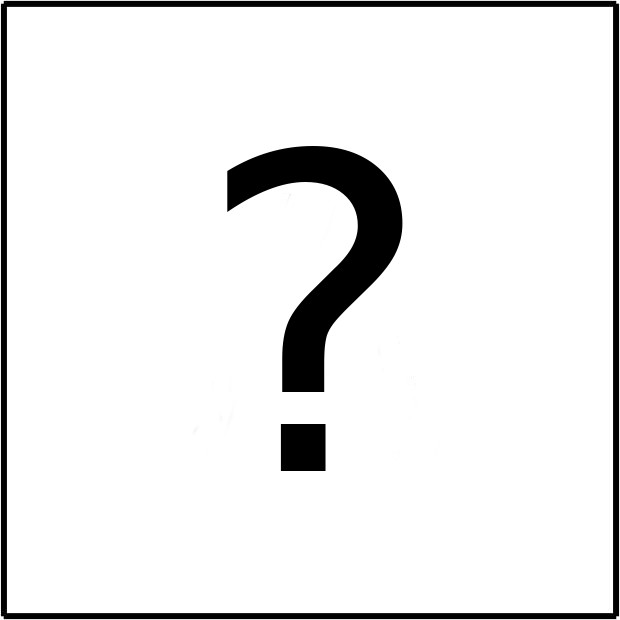
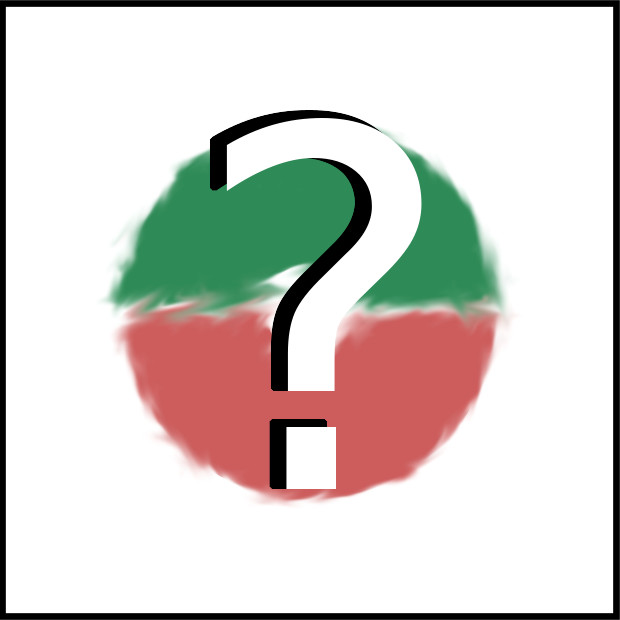
update

Changed region(s): [[0.1532, 0.1532, 0.8274, 0.8274], [0.9806, 0.0, 1.0, 1.0], [0.0, 0.0, 0.0306, 1.0]]

diff --git a/js/modules/inst.js b/js/modules/inst.js
@@ -336,6 +336,8 @@ export class Instructions {
                     + GUI.panelGenerateImg({src: 'images/cards_gif/lotteries/0.4.png', width: '15%'})
                     + 'Specifically, the green area indicates the chance of winning +1 (+' + this.exp.pointsToPence(1).toFixed(2) + 'p) ; the red area indicates the chance of losing -1 (+'
                     + this.exp.pointsToPence(1).toFixed(2) + 'p).\n\n'
+                    + ' • Sometimes the pie-chart will be hidden an represented by a question mark, in such a way that the odds of winning / losing are unknown.\n\n'
+                    + GUI.panelGenerateImg({src: 'images/cards_gif/stim/question.jpg', width: '15%'})
                     + ' • Sometimes you will be asked to choose between two symbols, sometime between two pie-charts, and sometimes between a pie-chart and a symbol.\n',
                 3: ' • (Note : points won during the training do not count for the final payoff!) \n\n'
                     + " • Let's begin with the second training test! \n\n"
@@ -355,6 +357,8 @@ export class Instructions {
                     + GUI.panelGenerateImg({src: 'images/cards_gif/lotteries/0.4.png', width: '15%'})
                     + 'Specifically, the green area indicates the chance of winning +1 (+' + this.exp.pointsToPence(1).toFixed(2) + 'p) ; the red area indicates the chance of losing -1 (+'
                     + this.exp.pointsToPence(1).toFixed(2) + 'p).\n\n'
+                    + ' • Sometimes the pie-chart will be hidden an represented by a question mark, in such a way that the odds of winning / losing are unknown.\n'
+                    + GUI.panelGenerateImg({src: 'images/cards_gif/stim/question.jpg', width: '15%'})
                     + ' • Sometimes you will be asked to choose between two symbols, sometime between two pie-charts, and sometimes between a pie-chart and a symbol.\n',
                 3: '• Note: The test of the phase 2 is like the second test of the training.\n'
                     + 'This is the actual game, every point will be included in the final payoff. \n\n Ready?',
@@ -607,8 +611,7 @@ export class Instructions {
         });
     }
 
-    endExperiment()
-    {
+    endExperiment() {
 
         GUI.initGameStageDiv();
 

diff --git a/main.css b/main.css
@@ -357,39 +357,69 @@ body {
     width: 100%;
     margin: 0 auto;
     background-color: #FFFFFF;
+    background: url('images/logo-ens.png') no-repeat 1% 50%;
+    background-size: 70px;
 
     box-shadow: 0 3px 8px -6px rgba(0, 0, 0, .50);
 }
 
-@media only screen and (min-width: 1200px) {
-    .md-stepper-horizontal {
-        background: url('images/logo-ens.png') no-repeat 1% 50%;
-        background-size: 70px;
-    }
-}
 
-@media only screen and (max-width: 1100px) {
+@media only screen and (min-width: 300px) and (max-width: 1100px) {
     /*.img-responsive {*/
         /*max-width: 160% !important;*/
     /*}*/
 
-    .col-xs-4 {
-        max-width: 160% !important;
-    }
-    .col-md-4 {
-        max-width: 160% !important;
+    /*.col-xs-4 {*/
+        /*max-width: 160% !important;*/
+    /*}*/
+    /*.col-md-4 {*/
+        /*max-width: 160% !important;*/
+    /*}*/
+    /**/
+    /*.img-responsive {*/
+        /*max-width: 160% !important;*/
+    /*}*/
+    .md-stepper-horizontal {
+        background: url('images/logo-ens.png') no-repeat 1% 50%;
+        background-size: 35px;
     }
 
-    .img-responsive {
-        max-width: 160% !important;
+    .md-step {
+        padding: 4px !important;
+    }
+
+    .md-step-circle {
+        height: 15px !important;
+        width: 15px !important;
     }
     .card
     {
         width: 70% !important;
     }
 
+    .md-stepper-horizontal .md-step .md-step-bar-right {
+        display: none;
+    }
+
+    .md-stepper-horizontal .md-step .md-step-bar-left {
+        display: none;
+    }
+
     #skipButton {
         margin-left: 0 !important;
+    }
+
+    #game {
+        height: 70%;
+    }
+
+    #TextBoxDiv {
+        height: 80%;
+    }
+
+    .img-responsive {
+        height: 80%;
+        max-width: none;
     }
 }
 

diff --git a/js/modules/gui.js b/js/modules/gui.js
@@ -15,6 +15,7 @@ export class GUI {
         if ($('#TextBoxDiv').length === 0) {
             createDiv('game', 'TextBoxDiv');
         }
+        $('#game').fadeIn(400);
         $('#TextBoxDiv').fadeIn(400);
     }
 
@@ -119,6 +120,7 @@ export class GUI {
     }
 
     static panelShow() {
+        $('#game').hide();
         $('#panel').show(800);
     }
 
@@ -305,11 +307,13 @@ export class GUI {
 
         if (!modalWin.html().includes('myModal')) {
             modalWin.html(str);
+            modalWin.show();
             myModal = $('#myModal');
         }
         myModal.modal();
         myModal.on('hidden.bs.modal', function () {
             modalWin.empty();
+            modalWin.hide();
         });
 
     }

diff --git a/js/app.js b/js/app.js
@@ -17,7 +17,6 @@ function main() {
     their attributes throught the whole experiment scope
     TODO:
         * ???
-        * Améliorer isSymbol
         * Init dictionnaries instead of arrays
      */
 
@@ -31,9 +30,9 @@ function main() {
     // let instructionNum = 0;
     // let questNum = 0;
 
-    let sessionNum = -1;
-    let phaseNum = 3;
-    let instructionNum = 'end';
+    let sessionNum = 0;
+    let phaseNum = 1;
+    let instructionNum = 0;
     let questNum = 0;
 
     // instantiate experiment parameters

diff --git a/index.html b/index.html
@@ -76,13 +76,13 @@
 <!-------------------------------------------------->
 
 <!--- Game container ----------------------------------->
-<div id='game'>
+<div id='game' style="display: none">
     <!--<div id="Stage"></div>-->
 </div>
 <!-------------------------------------------------->
 
 <!--- Modal Window ----------------------------------->
-<div id='Modal'></div>
+<div id='Modal' style="display: none;"></div>
  <!-------------------------------------------------->
 
 <body>
